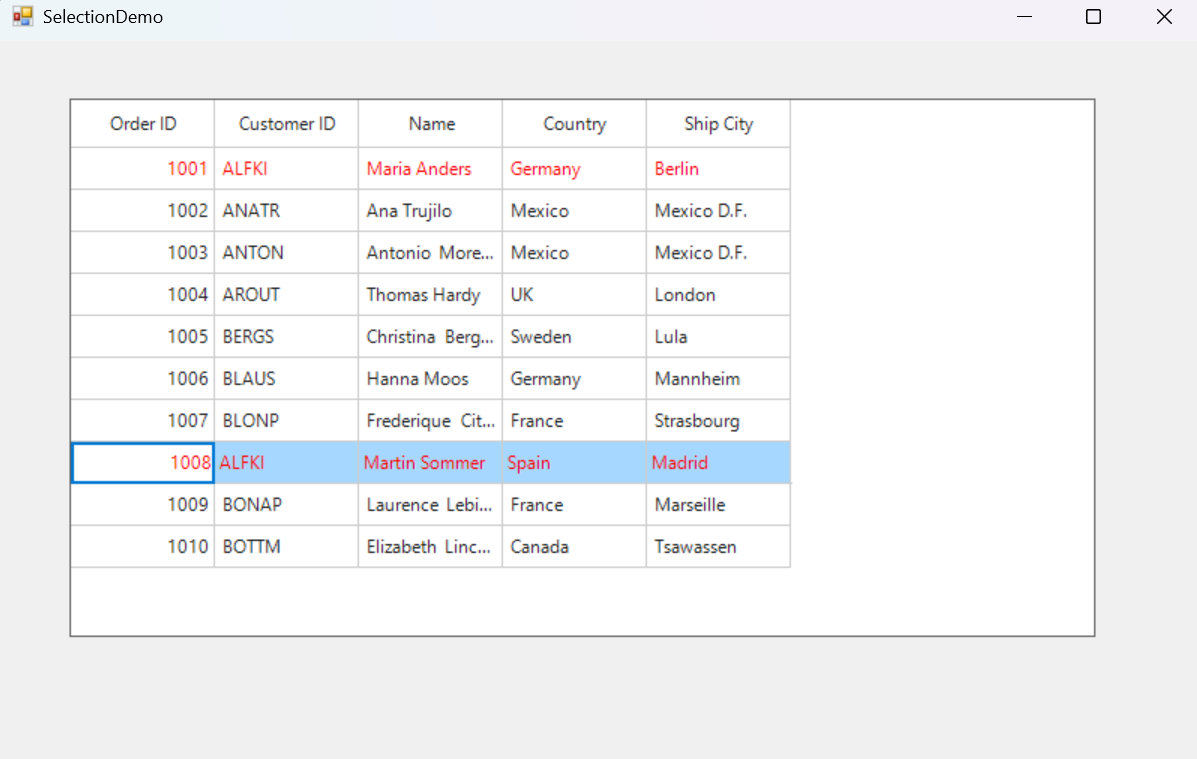
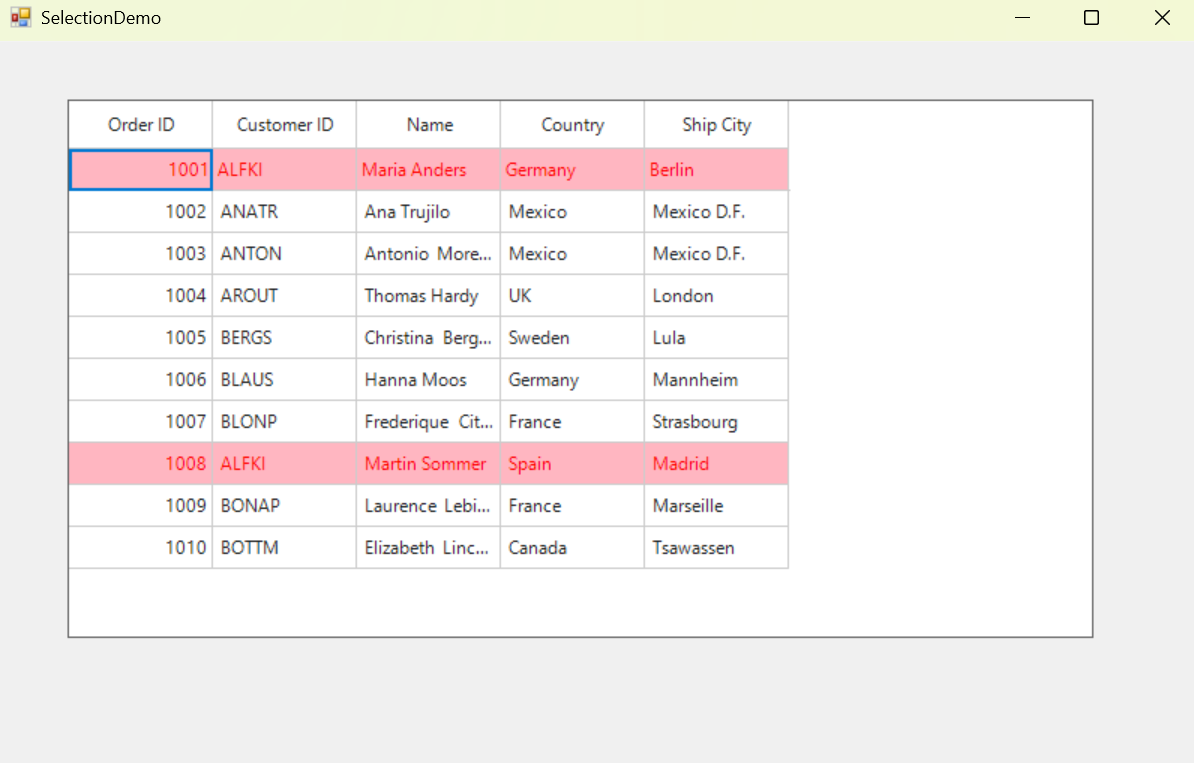
Addressed the concerns.

diff --git a/SelectionDemo/Form1.cs b/SelectionDemo/Form1.cs
@@ -32,32 +32,39 @@ namespace SfDataGridDemo
             //Event subscription
             sfDataGrid.DrawCell += OnDrawCell;       
         }
-        
+
         //Event customization
         private void OnDrawCell(object sender, DrawCellEventArgs e)
         {
             if (e.DataRow == null || e.DataRow.RowData == null || sfDataGrid.SelectedItems == null || sfDataGrid.SelectedItems.Count < 0 || sfDataGrid.CurrentCell == null)
                 return;
+
             if ((e.DataRow.RowData as OrderInfo).CustomerID == "ALFKI" && sfDataGrid.SelectedItems.OfType<OrderInfo>().Select(item => item.CustomerID).Contains("ALFKI"))
-            {           
-                var paddedBounds = new Rectangle( e.Bounds.X + 1, e.Bounds.Y + 1, e.Bounds.Width - 2, e.Bounds.Height - 2);
-                e.Style.TextColor = Color.Red;
+            {
+                var paddedBounds = new Rectangle(e.Bounds.X + 1, e.Bounds.Y + 1, e.Bounds.Width - 2, e.Bounds.Height - 2);
                 StringFormat format = new StringFormat();
                 DrawingHelper drawingHelper = new DrawingHelper();
+
                 if (e.Column.CellType == "Numeric")
                     e.Style.HorizontalAlignment = HorizontalAlignment.Right;
-                var horizontalAlignment = drawingHelper.GetType().GetMethod("ConvertToStringAlignment", System.Reflection.BindingFlags.NonPublic | System.Reflection.BindingFlags.Static, Type.DefaultBinder, new Type[] { typeof(HorizontalAlignment) }, new ParameterModifier[] { }).Invoke(drawingHelper, new object[] { e.Style.HorizontalAlignment });
-                var verticalAlignment = drawingHelper.GetType().GetMethod("ConvertToStringAlignment", System.Reflection.BindingFlags.NonPublic | System.Reflection.BindingFlags.Static, Type.DefaultBinder, new Type[] { typeof(VerticalAlignment) }, new ParameterModifier[] { }).Invoke(drawingHelper, new object[] { e.Style.VerticalAlignment });
+
+                var horizontalAlignment = drawingHelper.GetType().GetMethod("ConvertToStringAlignment", BindingFlags.NonPublic | BindingFlags.Static, Type.DefaultBinder, new Type[] { typeof(HorizontalAlignment) }, new ParameterModifier[] { }).Invoke(drawingHelper, new object[] { e.Style.HorizontalAlignment });
+                var verticalAlignment = drawingHelper.GetType().GetMethod("ConvertToStringAlignment", BindingFlags.NonPublic | BindingFlags.Static, Type.DefaultBinder, new Type[] { typeof(VerticalAlignment) }, new ParameterModifier[] { }).Invoke(drawingHelper, new object[] { e.Style.VerticalAlignment });
+
                 format.Alignment = (StringAlignment)horizontalAlignment;
                 format.LineAlignment = (StringAlignment)verticalAlignment;
-                if(e.ColumnIndex != sfDataGrid.CurrentCell.ColumnIndex)
-                     e.Graphics.FillRectangle(new SolidBrush(sfDataGrid.Style.SelectionStyle.BackColor), e.Bounds);
+
+                // Fill the rectangle with the applied background color from the row style, and draw the string with the applied text color.
+                e.Graphics.FillRectangle(new SolidBrush(e.Style.BackColor), e.Bounds);
                 e.Graphics.DrawString(e.DisplayText, e.Style.GetFont(), new SolidBrush(e.Style.TextColor), paddedBounds, format);
+
                 e.Graphics.DrawLine(new Pen(e.Style.Borders.Right.Color), e.Bounds.Right - 1, e.Bounds.Top, e.Bounds.Right - 1, e.Bounds.Bottom);
                 e.Graphics.DrawLine(new Pen(e.Style.Borders.Bottom.Color), e.Bounds.Left, e.Bounds.Bottom - 1, e.Bounds.Right, e.Bounds.Bottom - 1);
+
                 // For drawn the current cell
                 if (e.ColumnIndex == sfDataGrid.CurrentCell.ColumnIndex)
                     e.Column.Renderer.OnDrawCurrentCell(e.Graphics, sfDataGrid, new RowColumnIndex(sfDataGrid.CurrentCell.RowIndex, sfDataGrid.CurrentCell.ColumnIndex));
+
                 // For handling the event
                 e.Handled = true;
             }
@@ -68,7 +75,10 @@ namespace SfDataGridDemo
             if (e.RowType == RowType.DefaultRow)
             {
                 if ((e.RowData as OrderInfo).CustomerID == "ALFKI")
+                {
                     e.Style.TextColor = Color.Red;
+                    e.Style.BackColor = Color.LightPink;
+                }
             }
         }
     }

diff --git a/README.md b/README.md
@@ -5,39 +5,46 @@ By default, in [WinForms DataGrid](https://www.syncfusion.com/winforms-ui-contro
 Within this event, manually fill the rectangle and draw the text for the selected data rows with the required text color.
 
  ```csharp
-//Event subscription
-sfDataGrid.DrawCell += OnDrawCell;       
+ //Event subscription
+ sfDataGrid.DrawCell += OnDrawCell;       
 
-//Event customization
-private void OnDrawCell(object sender, DrawCellEventArgs e)
-{
-    if (e.DataRow == null || e.DataRow.RowData == null || sfDataGrid.SelectedItems == null || sfDataGrid.SelectedItems.Count < 0 || sfDataGrid.CurrentCell == null)
-        return;
-    if ((e.DataRow.RowData as OrderInfo).CustomerID == "ALFKI" && sfDataGrid.SelectedItems.OfType<OrderInfo>().Select(item => item.CustomerID).Contains("ALFKI"))
-    {           
-        var paddedBounds = new Rectangle( e.Bounds.X + 1, e.Bounds.Y + 1, e.Bounds.Width - 2, e.Bounds.Height - 2);
-        e.Style.TextColor = Color.Red;
-        StringFormat format = new StringFormat();
-        DrawingHelper drawingHelper = new DrawingHelper();
-        if (e.Column.CellType == "Numeric")
+ //Event customization
+ private void OnDrawCell(object sender, DrawCellEventArgs e)
+ {
+     if (e.DataRow == null || e.DataRow.RowData == null || sfDataGrid.SelectedItems == null || sfDataGrid.SelectedItems.Count < 0 || sfDataGrid.CurrentCell == null)
+         return;
+
+     if ((e.DataRow.RowData as OrderInfo).CustomerID == "ALFKI" && sfDataGrid.SelectedItems.OfType<OrderInfo>().Select(item => item.CustomerID).Contains("ALFKI"))
+     {
+         var paddedBounds = new Rectangle(e.Bounds.X + 1, e.Bounds.Y + 1, e.Bounds.Width - 2, e.Bounds.Height - 2);
+         StringFormat format = new StringFormat();
+         DrawingHelper drawingHelper = new DrawingHelper();
+
+         if (e.Column.CellType == "Numeric")
              e.Style.HorizontalAlignment = HorizontalAlignment.Right;
-        var horizontalAlignment = drawingHelper.GetType().GetMethod("ConvertToStringAlignment", System.Reflection.BindingFlags.NonPublic | System.Reflection.BindingFlags.Static, Type.DefaultBinder, new Type[] { typeof(HorizontalAlignment) }, new ParameterModifier[] { }).Invoke(drawingHelper, new object[] { e.Style.HorizontalAlignment });
-        var verticalAlignment = drawingHelper.GetType().GetMethod("ConvertToStringAlignment", System.Reflection.BindingFlags.NonPublic | System.Reflection.BindingFlags.Static, Type.DefaultBinder, new Type[] { typeof(VerticalAlignment) }, new ParameterModifier[] { }).Invoke(drawingHelper, new object[] { e.Style.VerticalAlignment });
-        format.Alignment = (StringAlignment)horizontalAlignment;
-        format.LineAlignment = (StringAlignment)verticalAlignment;
-        if(e.ColumnIndex != sfDataGrid.CurrentCell.ColumnIndex)
-            e.Graphics.FillRectangle(new SolidBrush(sfDataGrid.Style.SelectionStyle.BackColor), e.Bounds);
-        e.Graphics.DrawString(e.DisplayText, e.Style.GetFont(), new SolidBrush(e.Style.TextColor), paddedBounds, format);
-        e.Graphics.DrawLine(new Pen(e.Style.Borders.Right.Color), e.Bounds.Right - 1, e.Bounds.Top, e.Bounds.Right - 1, e.Bounds.Bottom);
-        e.Graphics.DrawLine(new Pen(e.Style.Borders.Bottom.Color), e.Bounds.Left, e.Bounds.Bottom - 1, e.Bounds.Right, e.Bounds.Bottom - 1);
+
+         var horizontalAlignment = drawingHelper.GetType().GetMethod("ConvertToStringAlignment", BindingFlags.NonPublic | BindingFlags.Static, Type.DefaultBinder, new Type[] { typeof(HorizontalAlignment) }, new ParameterModifier[] { }).Invoke(drawingHelper, new object[] { e.Style.HorizontalAlignment });
+         var verticalAlignment = drawingHelper.GetType().GetMethod("ConvertToStringAlignment", BindingFlags.NonPublic | BindingFlags.Static, Type.DefaultBinder, new Type[] { typeof(VerticalAlignment) }, new ParameterModifier[] { }).Invoke(drawingHelper, new object[] { e.Style.VerticalAlignment });
+
+         format.Alignment = (StringAlignment)horizontalAlignment;
+         format.LineAlignment = (StringAlignment)verticalAlignment;
+
+         // Fill the rectangle with the applied background color from the row style, and draw the string with the applied text color.
+         e.Graphics.FillRectangle(new SolidBrush(e.Style.BackColor), e.Bounds);
+         e.Graphics.DrawString(e.DisplayText, e.Style.GetFont(), new SolidBrush(e.Style.TextColor), paddedBounds, format);
+
+         e.Graphics.DrawLine(new Pen(e.Style.Borders.Right.Color), e.Bounds.Right - 1, e.Bounds.Top, e.Bounds.Right - 1, e.Bounds.Bottom);
+         e.Graphics.DrawLine(new Pen(e.Style.Borders.Bottom.Color), e.Bounds.Left, e.Bounds.Bottom - 1, e.Bounds.Right, e.Bounds.Bottom - 1);
+
          // For drawn the current cell
-        if (e.ColumnIndex == sfDataGrid.CurrentCell.ColumnIndex)
+         if (e.ColumnIndex == sfDataGrid.CurrentCell.ColumnIndex)
              e.Column.Renderer.OnDrawCurrentCell(e.Graphics, sfDataGrid, new RowColumnIndex(sfDataGrid.CurrentCell.RowIndex, sfDataGrid.CurrentCell.ColumnIndex));
+
          // For handling the event
-        e.Handled = true;
-    }
+         e.Handled = true;
+     }
  }
  ```
- ![Overriding SelectionStyle](OverridingSelectionStyle.png)
+![Overriding SelectionStyle](OverridingSelectionStyle.png)
 
 Take a moment to peruse the [WinForms DataGrid-Selection](https://help.syncfusion.com/windowsforms/datagrid/selection) documentation, to learn more about DataGrid Selections with examples.
